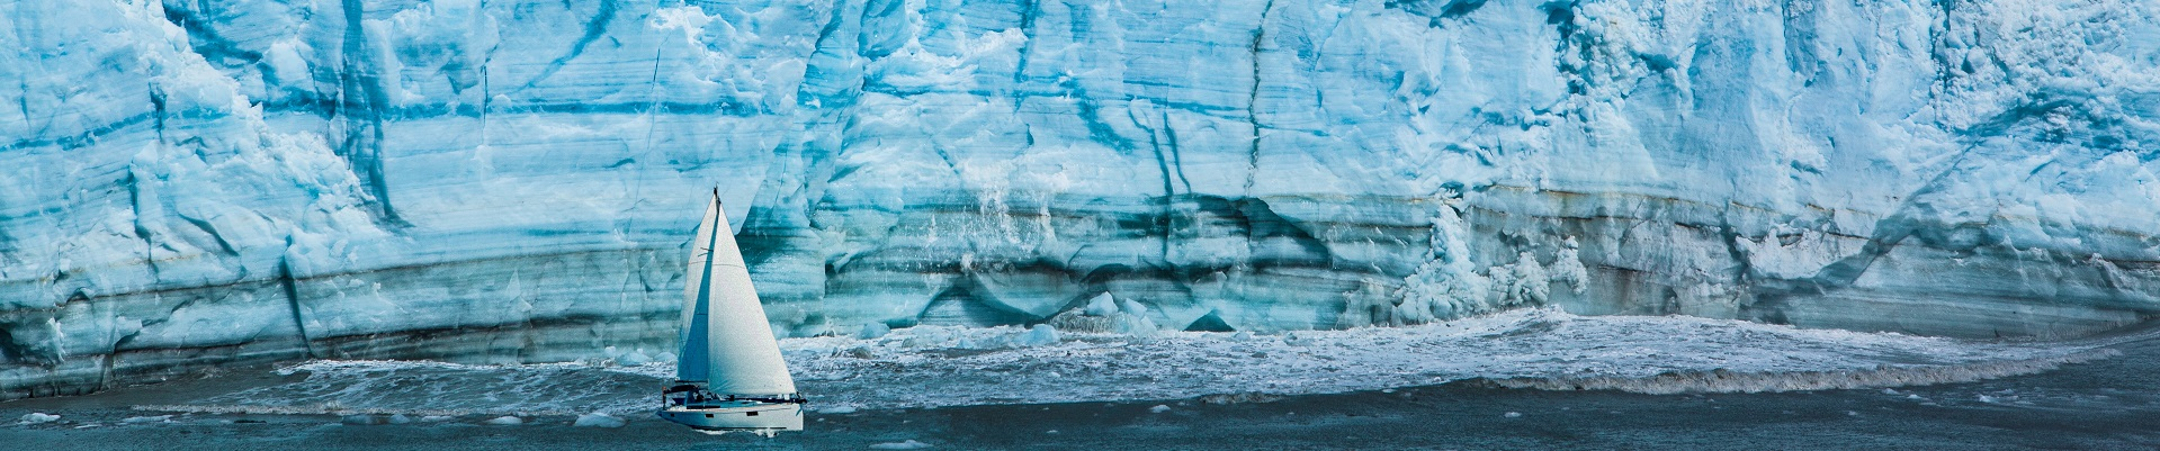
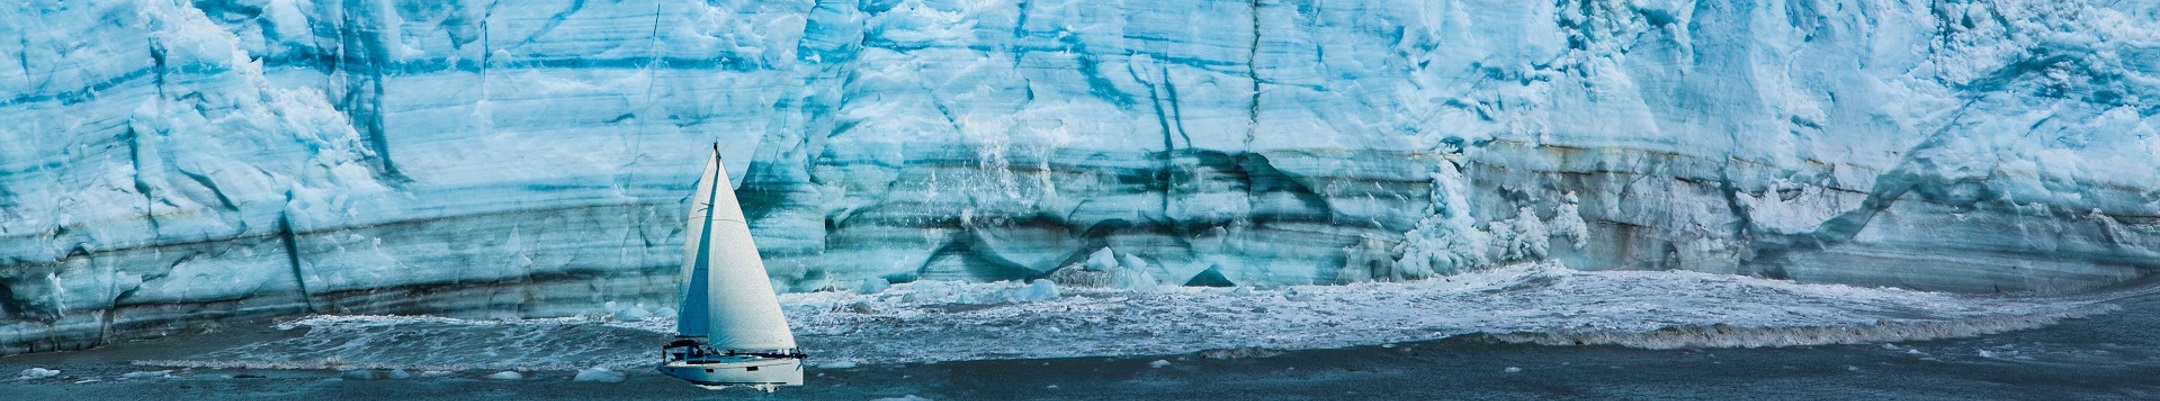
endet størelse på header bilder

diff --git a/style.css b/style.css
@@ -67,7 +67,7 @@ th {
 }
 
 #headerGalleri {
-  background: url(bilder/galleri-isbjorn.jpg);
+  background: url(bilder/galleriHeader.jpg);
 }
 
 #headerTur {
